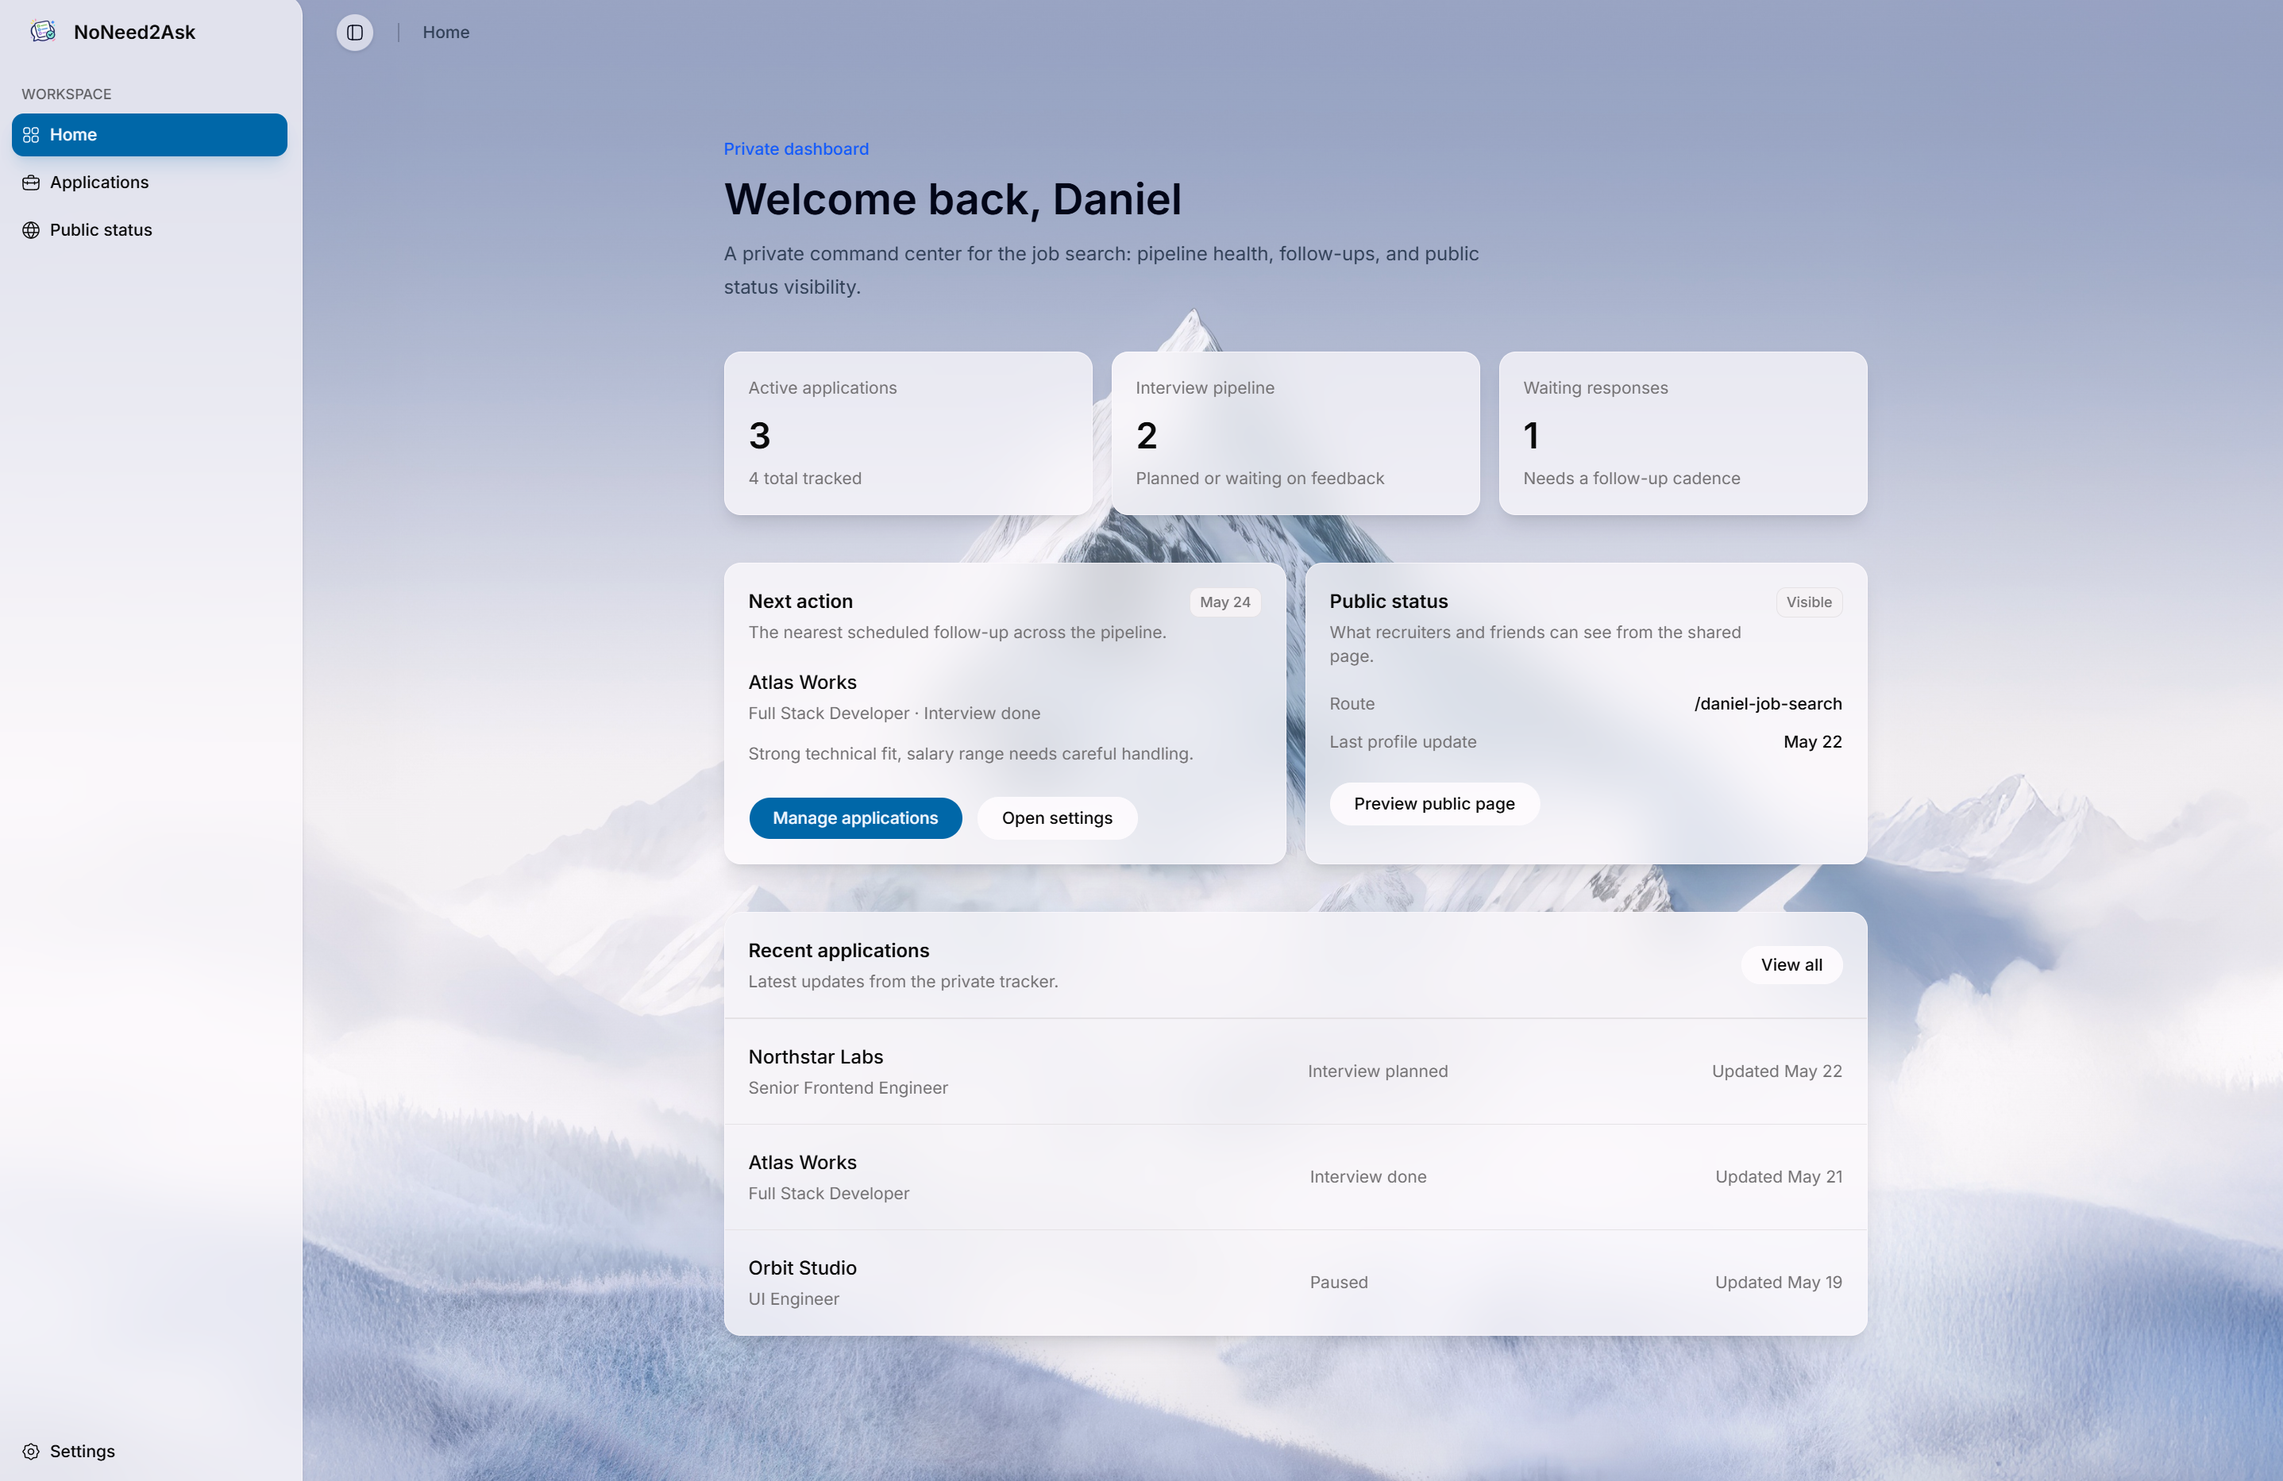
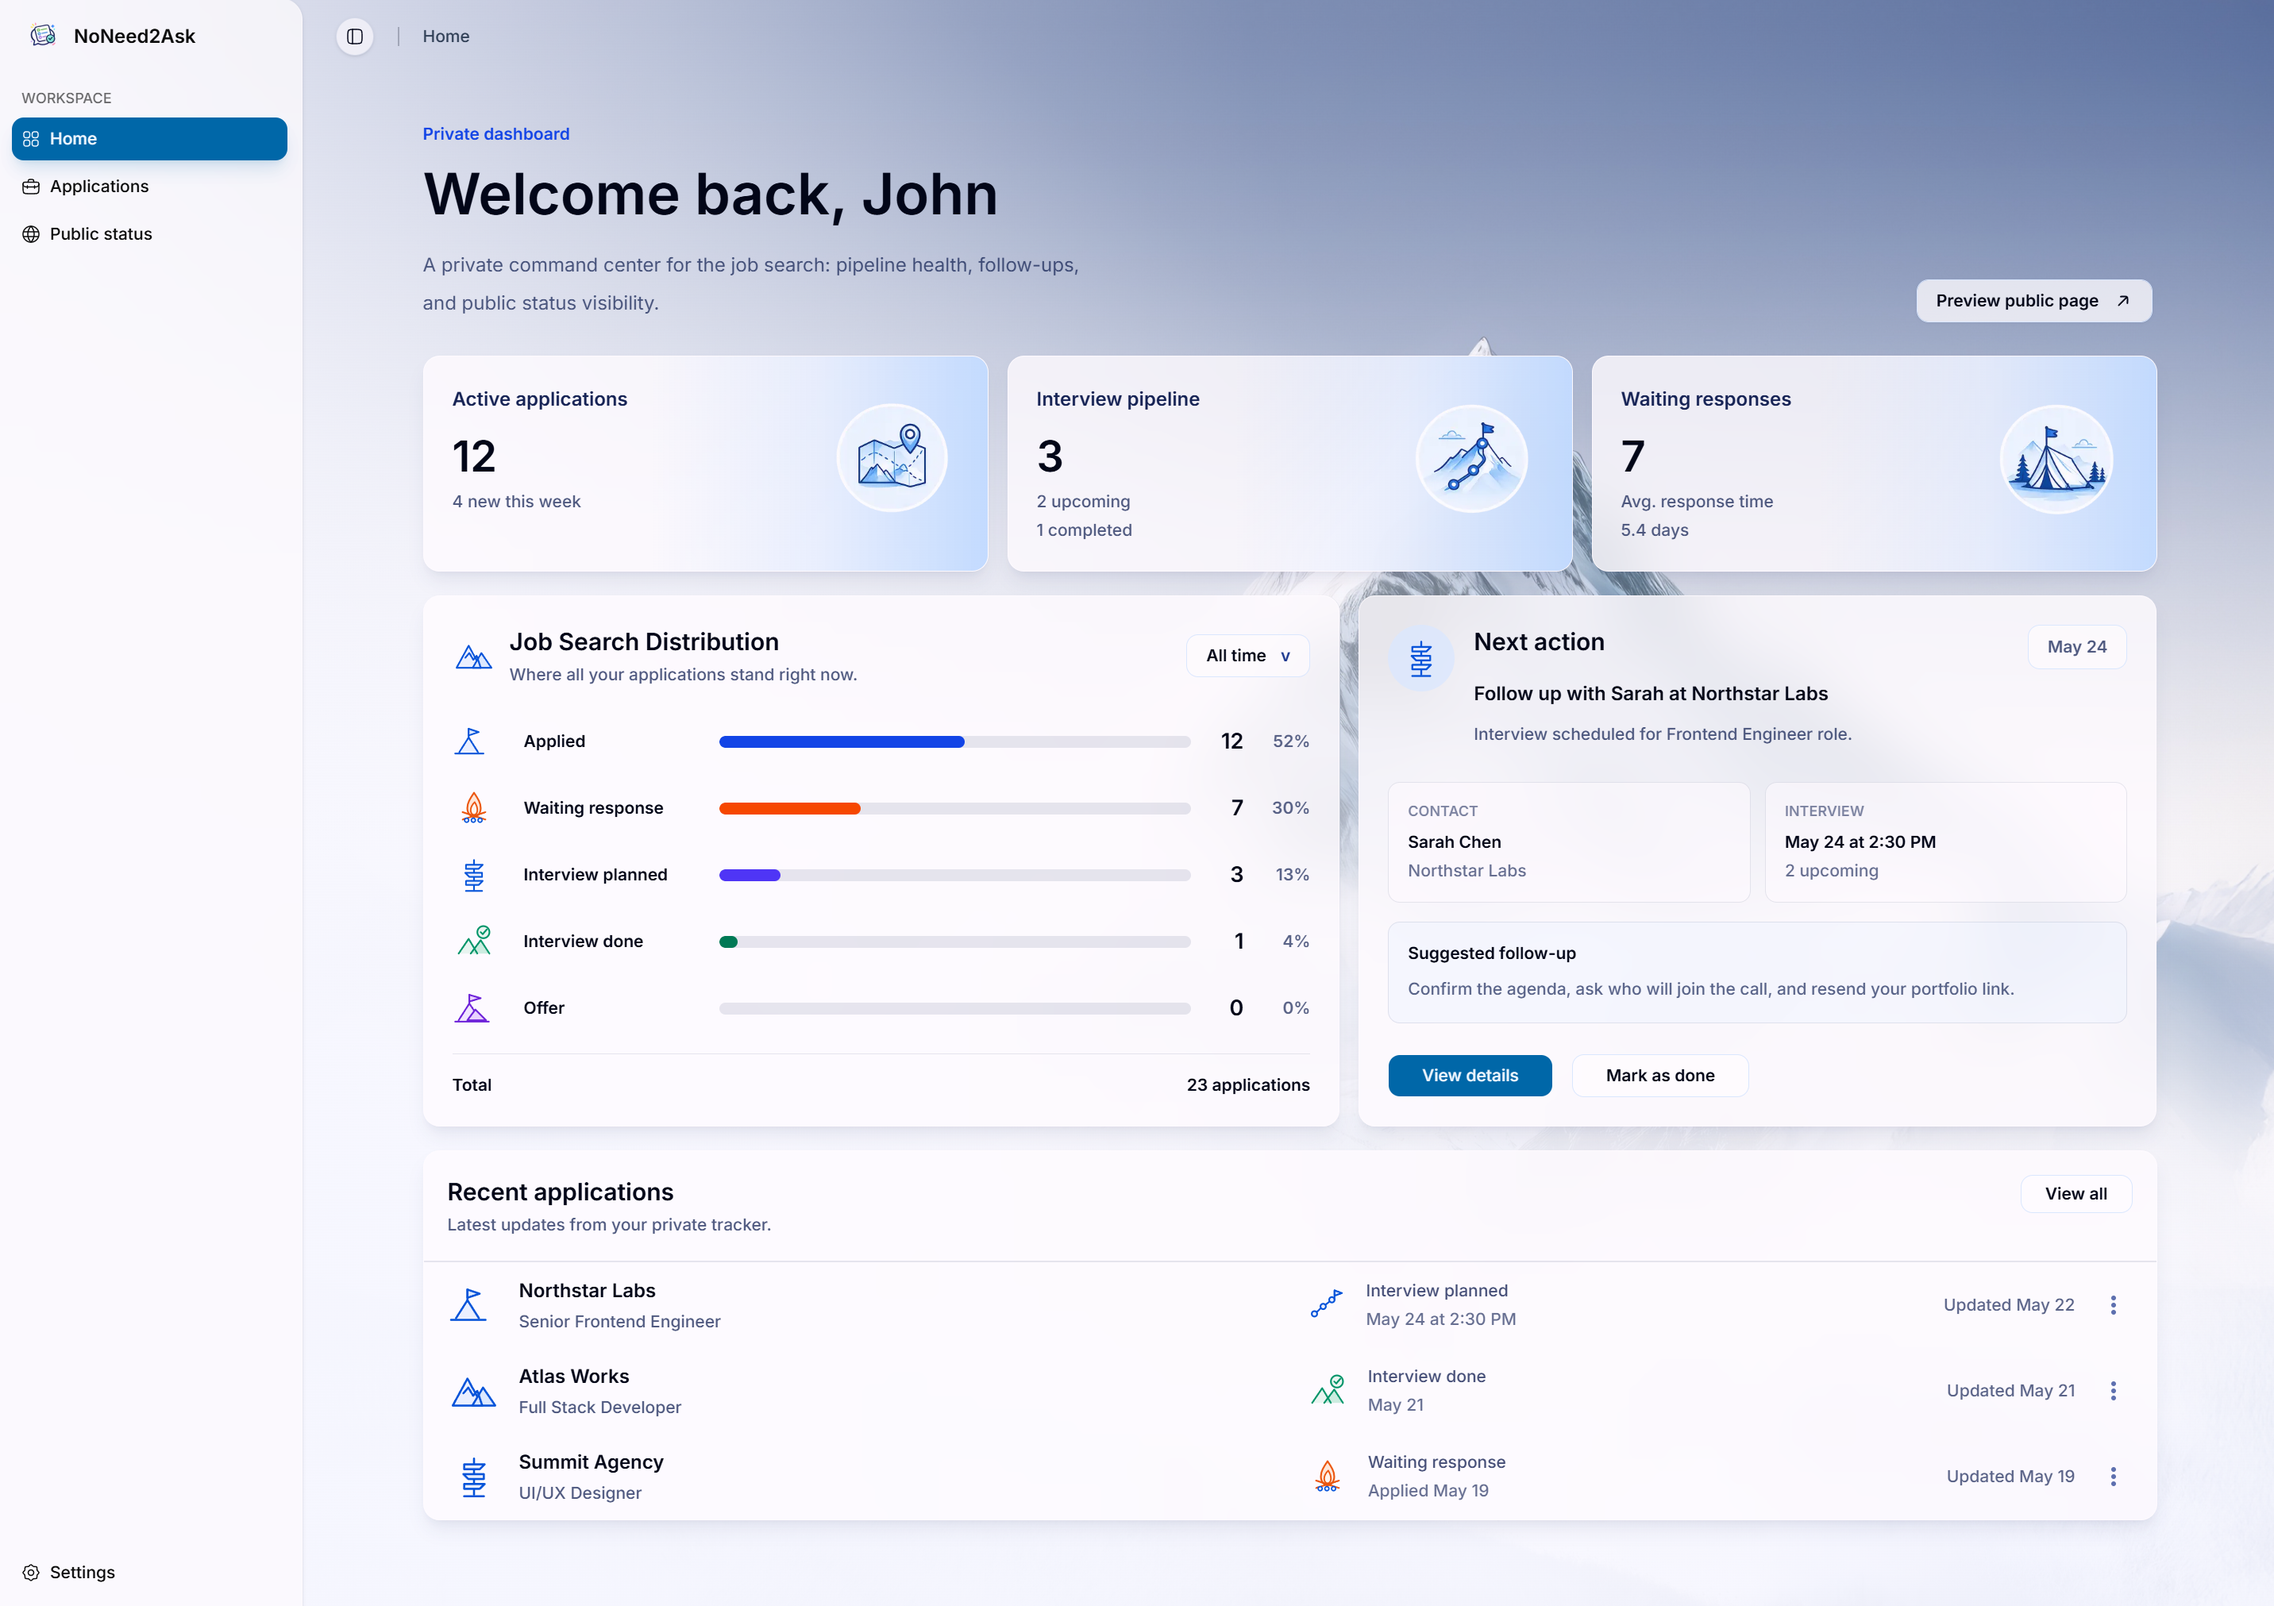
refactor: update landing page layout and styles, remove unused components

diff --git a/src/frontend/components/landing/landing-page.tsx b/src/frontend/components/landing/landing-page.tsx
@@ -59,23 +59,38 @@ export function LandingPage() {
           </LandingReveal>
 
           <LandingReveal
-            className="landing-hero-perspective relative mt-7 w-full max-w-6xl translate-y-10 px-1 sm:mt-9 sm:px-4 md:translate-y-14"
+            className="relative mt-8 w-full max-w-6xl translate-y-8 px-1 sm:mt-10 sm:px-4 md:translate-y-12"
             delay={500}
             motion="fade"
           >
-            <div className="landing-hero-mist" aria-hidden="true" />
-            <div className="landing-hero-card relative overflow-hidden rounded-2xl border border-white/65 bg-white/10 shadow-2xl shadow-slate-950/20 ring-1 ring-white/50 backdrop-blur-sm">
-              <Image
-                src="/landingpage-hero-img.png"
-                alt="NoNeed2Ask applications dashboard with sidebar and tracked job applications"
-                width={1920}
-                height={930}
-                priority
-                className="landing-hero-image h-auto w-full"
-              />
+            <div
+              aria-hidden="true"
+              className="absolute inset-x-10 -top-3 h-px bg-gradient-to-r from-transparent via-border to-transparent"
+            />
+            <div className="relative overflow-hidden rounded-xl border border-border/80 bg-background/95 p-1 shadow-[0_24px_80px_-36px_rgb(15_23_42_/_0.45)] ring-1 ring-foreground/5 backdrop-blur">
+              <div className="flex h-9 items-center gap-1.5 border-b border-border/70 bg-muted/60 px-3">
+                <span className="h-2.5 w-2.5 rounded-full bg-[#ff5f57] ring-1 ring-black/10" />
+                <span className="h-2.5 w-2.5 rounded-full bg-[#ffbd2e] ring-1 ring-black/10" />
+                <span className="h-2.5 w-2.5 rounded-full bg-[#28c840] ring-1 ring-black/10" />
+                <div className="ml-3 flex h-5 min-w-0 flex-1 items-center rounded-md bg-background/85 px-3 text-left text-[11px] leading-none text-muted-foreground ring-1 ring-border/70">
+                  <span className="truncate">
+                    https://no-need2-ask.vercel.app/
+                  </span>
+                </div>
+              </div>
+              <div className="relative overflow-hidden rounded-b-lg bg-card">
+                <Image
+                  src="/landingpage-hero-img.png"
+                  alt="NoNeed2Ask applications dashboard with sidebar and tracked job applications"
+                  width={1920}
+                  height={930}
+                  priority
+                  className="h-auto w-full"
+                />
+              </div>
               <div
                 aria-hidden="true"
-                className="pointer-events-none absolute inset-0 bg-gradient-to-b from-white/18 via-transparent to-white/30"
+                className="pointer-events-none absolute inset-0 rounded-xl ring-1 ring-white/45"
               />
             </div>
           </LandingReveal>

diff --git a/src/frontend/components/dashboard/dashboard-header.tsx b/src/frontend/components/dashboard/dashboard-header.tsx
@@ -12,21 +12,21 @@ export function DashboardHeader({
   userDisplayName: string;
 }) {
   return (
-    <div className="flex flex-col gap-3 md:flex-row md:items-start md:justify-between">
-      <header className="max-w-2xl pt-1 md:pt-2">
+    <div className="flex flex-col gap-3 lg:flex-row lg:items-end lg:justify-between">
+      <header className="max-w-2xl pt-1 lg:pt-2">
         <p className="text-sm font-semibold text-blue-700">
           Private dashboard
         </p>
-        <h1 className="mt-2 text-3xl font-semibold tracking-normal text-slate-950 sm:text-4xl md:mt-4 md:text-5xl">
+        <h1 className="mt-2 text-3xl font-semibold tracking-normal text-slate-950 sm:text-4xl lg:mt-4 lg:text-5xl">
           Welcome back, {userDisplayName}
         </h1>
-        <p className="mt-3 max-w-xl text-sm leading-6 text-blue-950/75 sm:text-base sm:leading-8 md:mt-5">
+        <p className="mt-3 max-w-xl text-sm leading-6 text-blue-950/75 sm:text-base sm:leading-8 lg:mt-5">
           A private command center for the job search: pipeline health,
           follow-ups, and public status visibility.
         </p>
       </header>
 
-      <div className="flex shrink-0 flex-wrap items-center justify-start gap-3 pr-1 text-sm font-semibold text-slate-950 md:justify-end md:gap-4">
+      <div className="flex shrink-0 flex-wrap items-center justify-start gap-3 pr-1 text-sm font-semibold text-slate-950 lg:justify-end lg:gap-4 ">
         <Button
           asChild
           className="h-9 rounded-lg border-blue-100 bg-white/75 px-4 text-sm font-semibold text-slate-950 shadow-sm shadow-blue-950/5 hover:bg-white"
@@ -43,17 +43,6 @@ export function DashboardHeader({
             />
           </Link>
         </Button>
-        <span
-          aria-hidden="true"
-          className="relative flex size-5 items-center justify-center rounded-full border border-blue-900/70"
-        >
-          <span className="size-1.5 rounded-full bg-blue-900" />
-          <span className="absolute -top-2 left-1/2 h-1 w-px -translate-x-1/2 bg-blue-900/70" />
-          <span className="absolute -bottom-2 left-1/2 h-1 w-px -translate-x-1/2 bg-blue-900/70" />
-          <span className="absolute -left-2 top-1/2 h-px w-1 -translate-y-1/2 bg-blue-900/70" />
-          <span className="absolute -right-2 top-1/2 h-px w-1 -translate-y-1/2 bg-blue-900/70" />
-        </span>
-        <time dateTime="2025-05-24">May 24, 2025</time>
       </div>
     </div>
   );

diff --git a/src/frontend/app/globals.css b/src/frontend/app/globals.css
@@ -132,46 +132,3 @@
   }
 }
 
-@layer components {
-  .landing-hero-perspective {
-    perspective: 1500px;
-    perspective-origin: 50% 18%;
-  }
-
-  .landing-hero-card {
-    transform: rotateX(7deg) rotateY(-5deg) rotateZ(0.7deg);
-    transform-origin: 50% 0;
-    opacity: 0.82;
-    filter: drop-shadow(0 34px 44px rgb(15 23 42 / 0.2));
-    mask-image: linear-gradient(to bottom, black 0%, black 74%, transparent 100%);
-    -webkit-mask-image: linear-gradient(
-      to bottom,
-      black 0%,
-      black 74%,
-      transparent 100%
-    );
-  }
-
-  .landing-hero-image {
-    mix-blend-mode: multiply;
-  }
-
-  .landing-hero-mist {
-    position: absolute;
-    inset: auto -8% -8% -8%;
-    height: 34%;
-    background:
-      radial-gradient(ellipse at 18% 60%, rgb(255 255 255 / 0.9), transparent 64%),
-      radial-gradient(ellipse at 72% 70%, rgb(255 255 255 / 0.86), transparent 68%),
-      linear-gradient(to bottom, transparent, rgb(255 255 255 / 0.82));
-    filter: blur(18px);
-    pointer-events: none;
-    z-index: 2;
-  }
-
-  @media (max-width: 767px) {
-    .landing-hero-card {
-      transform: rotateX(5deg) rotateY(-3deg) rotateZ(0.5deg);
-    }
-  }
-}
